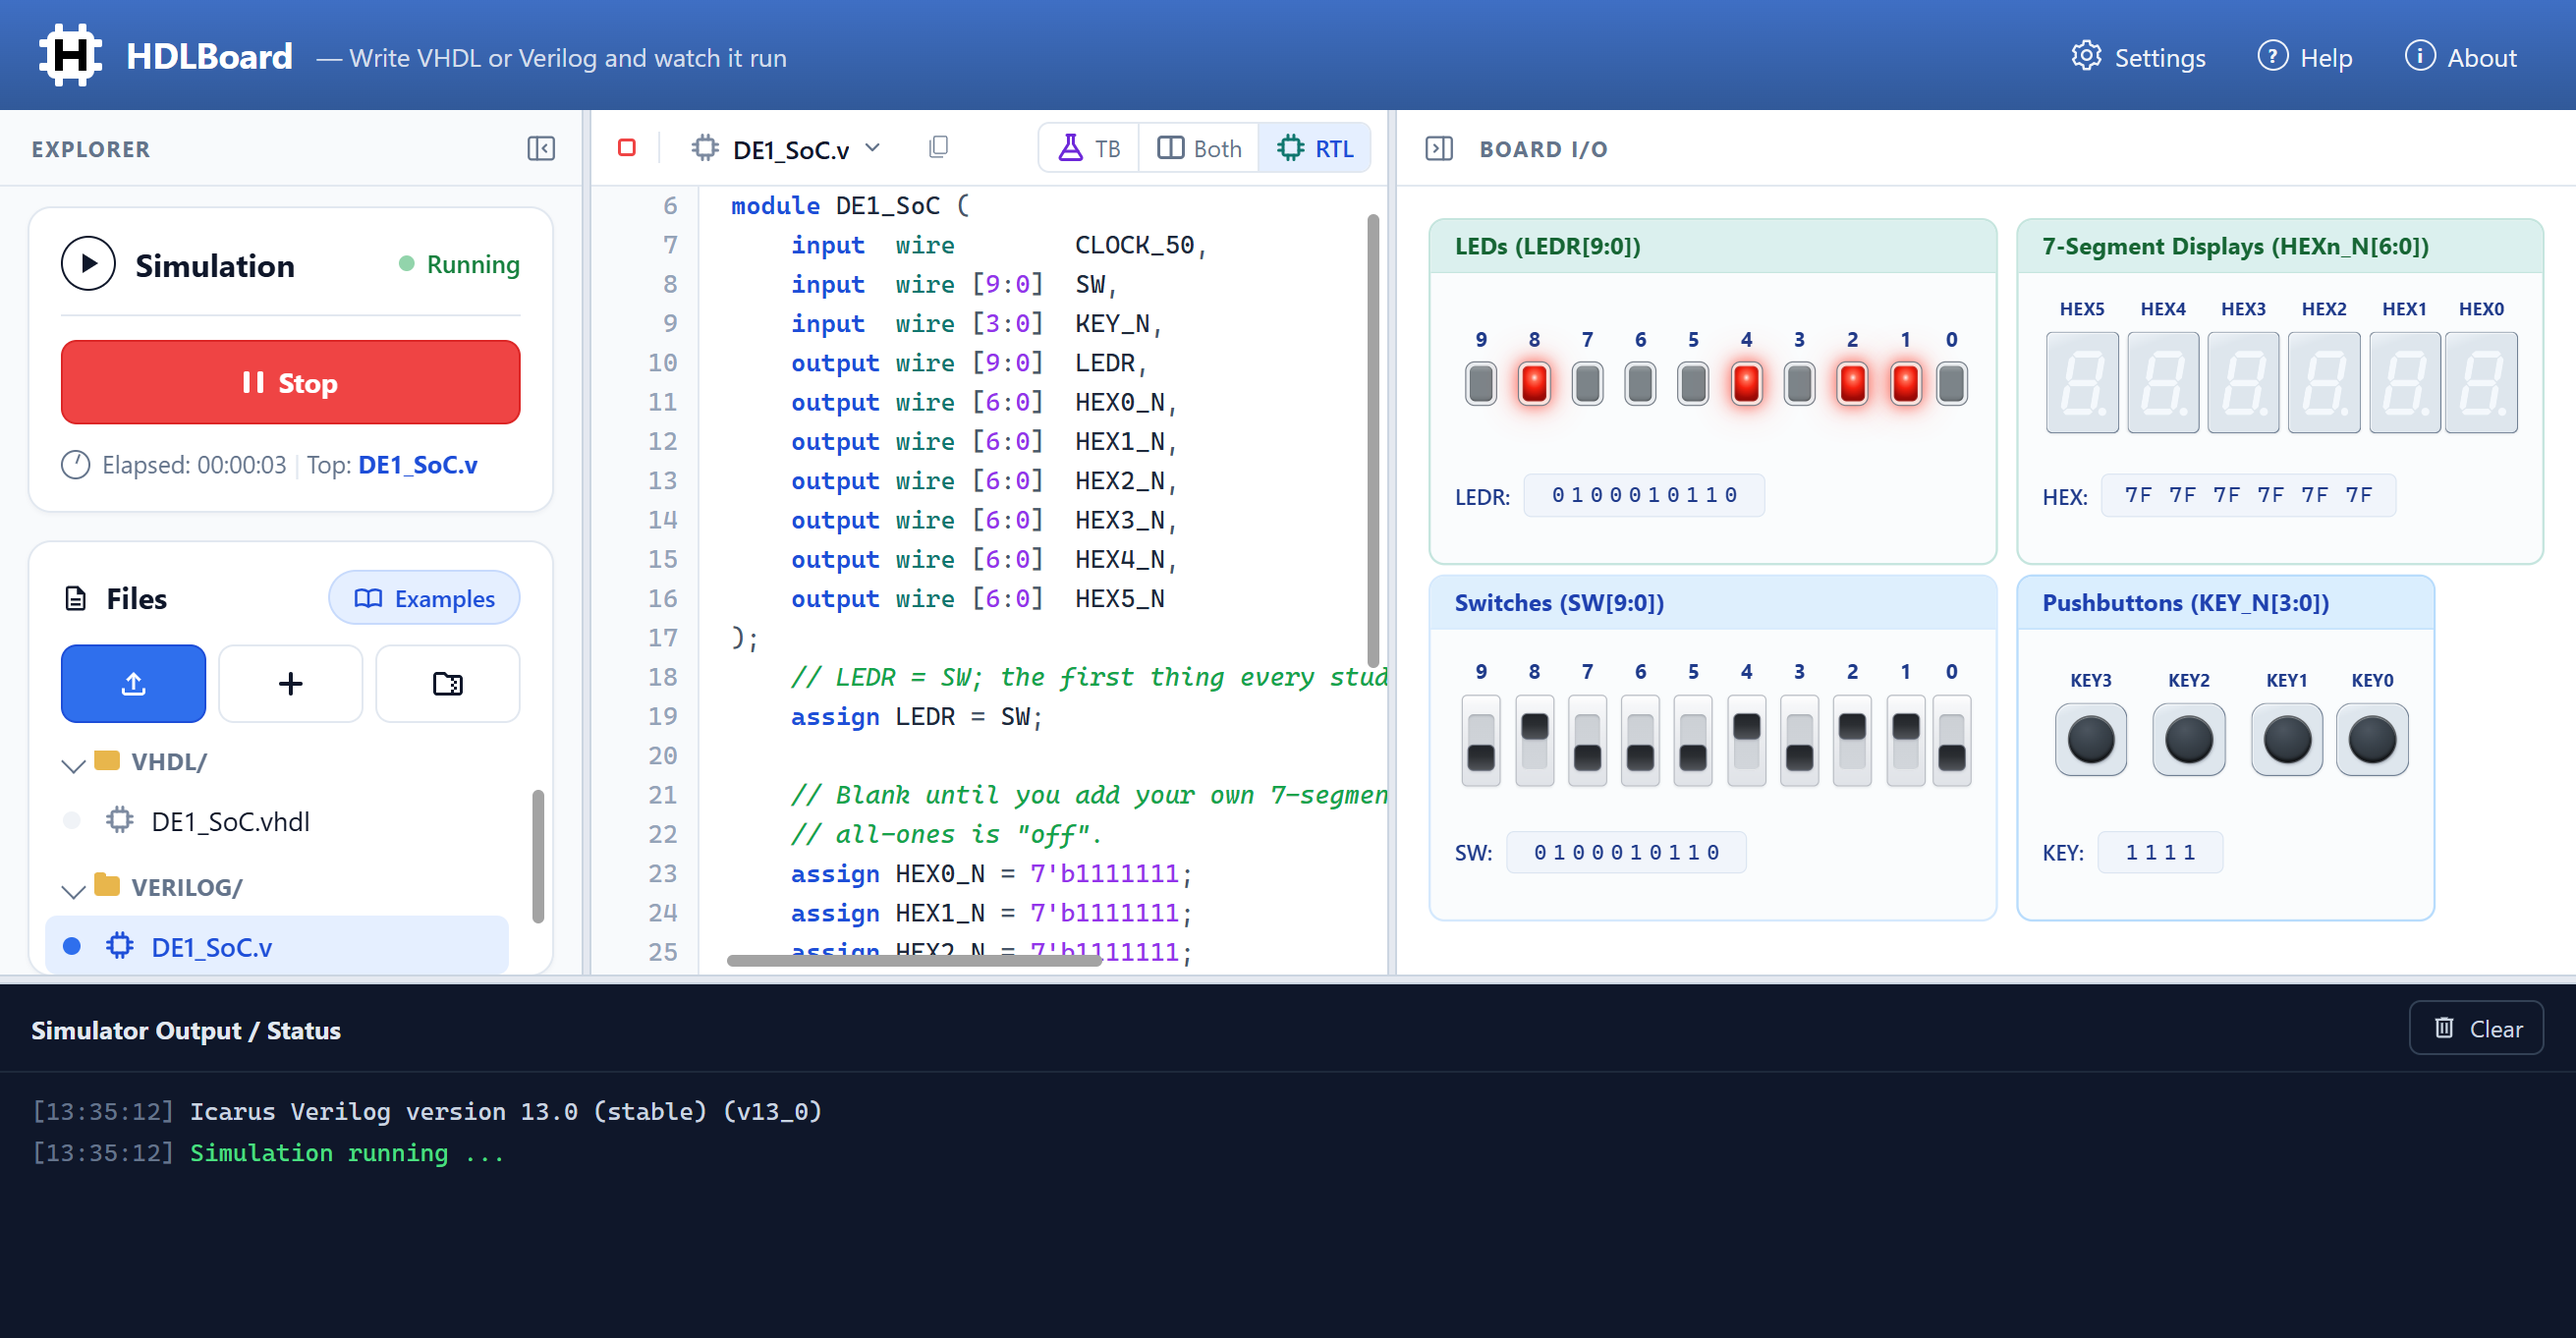
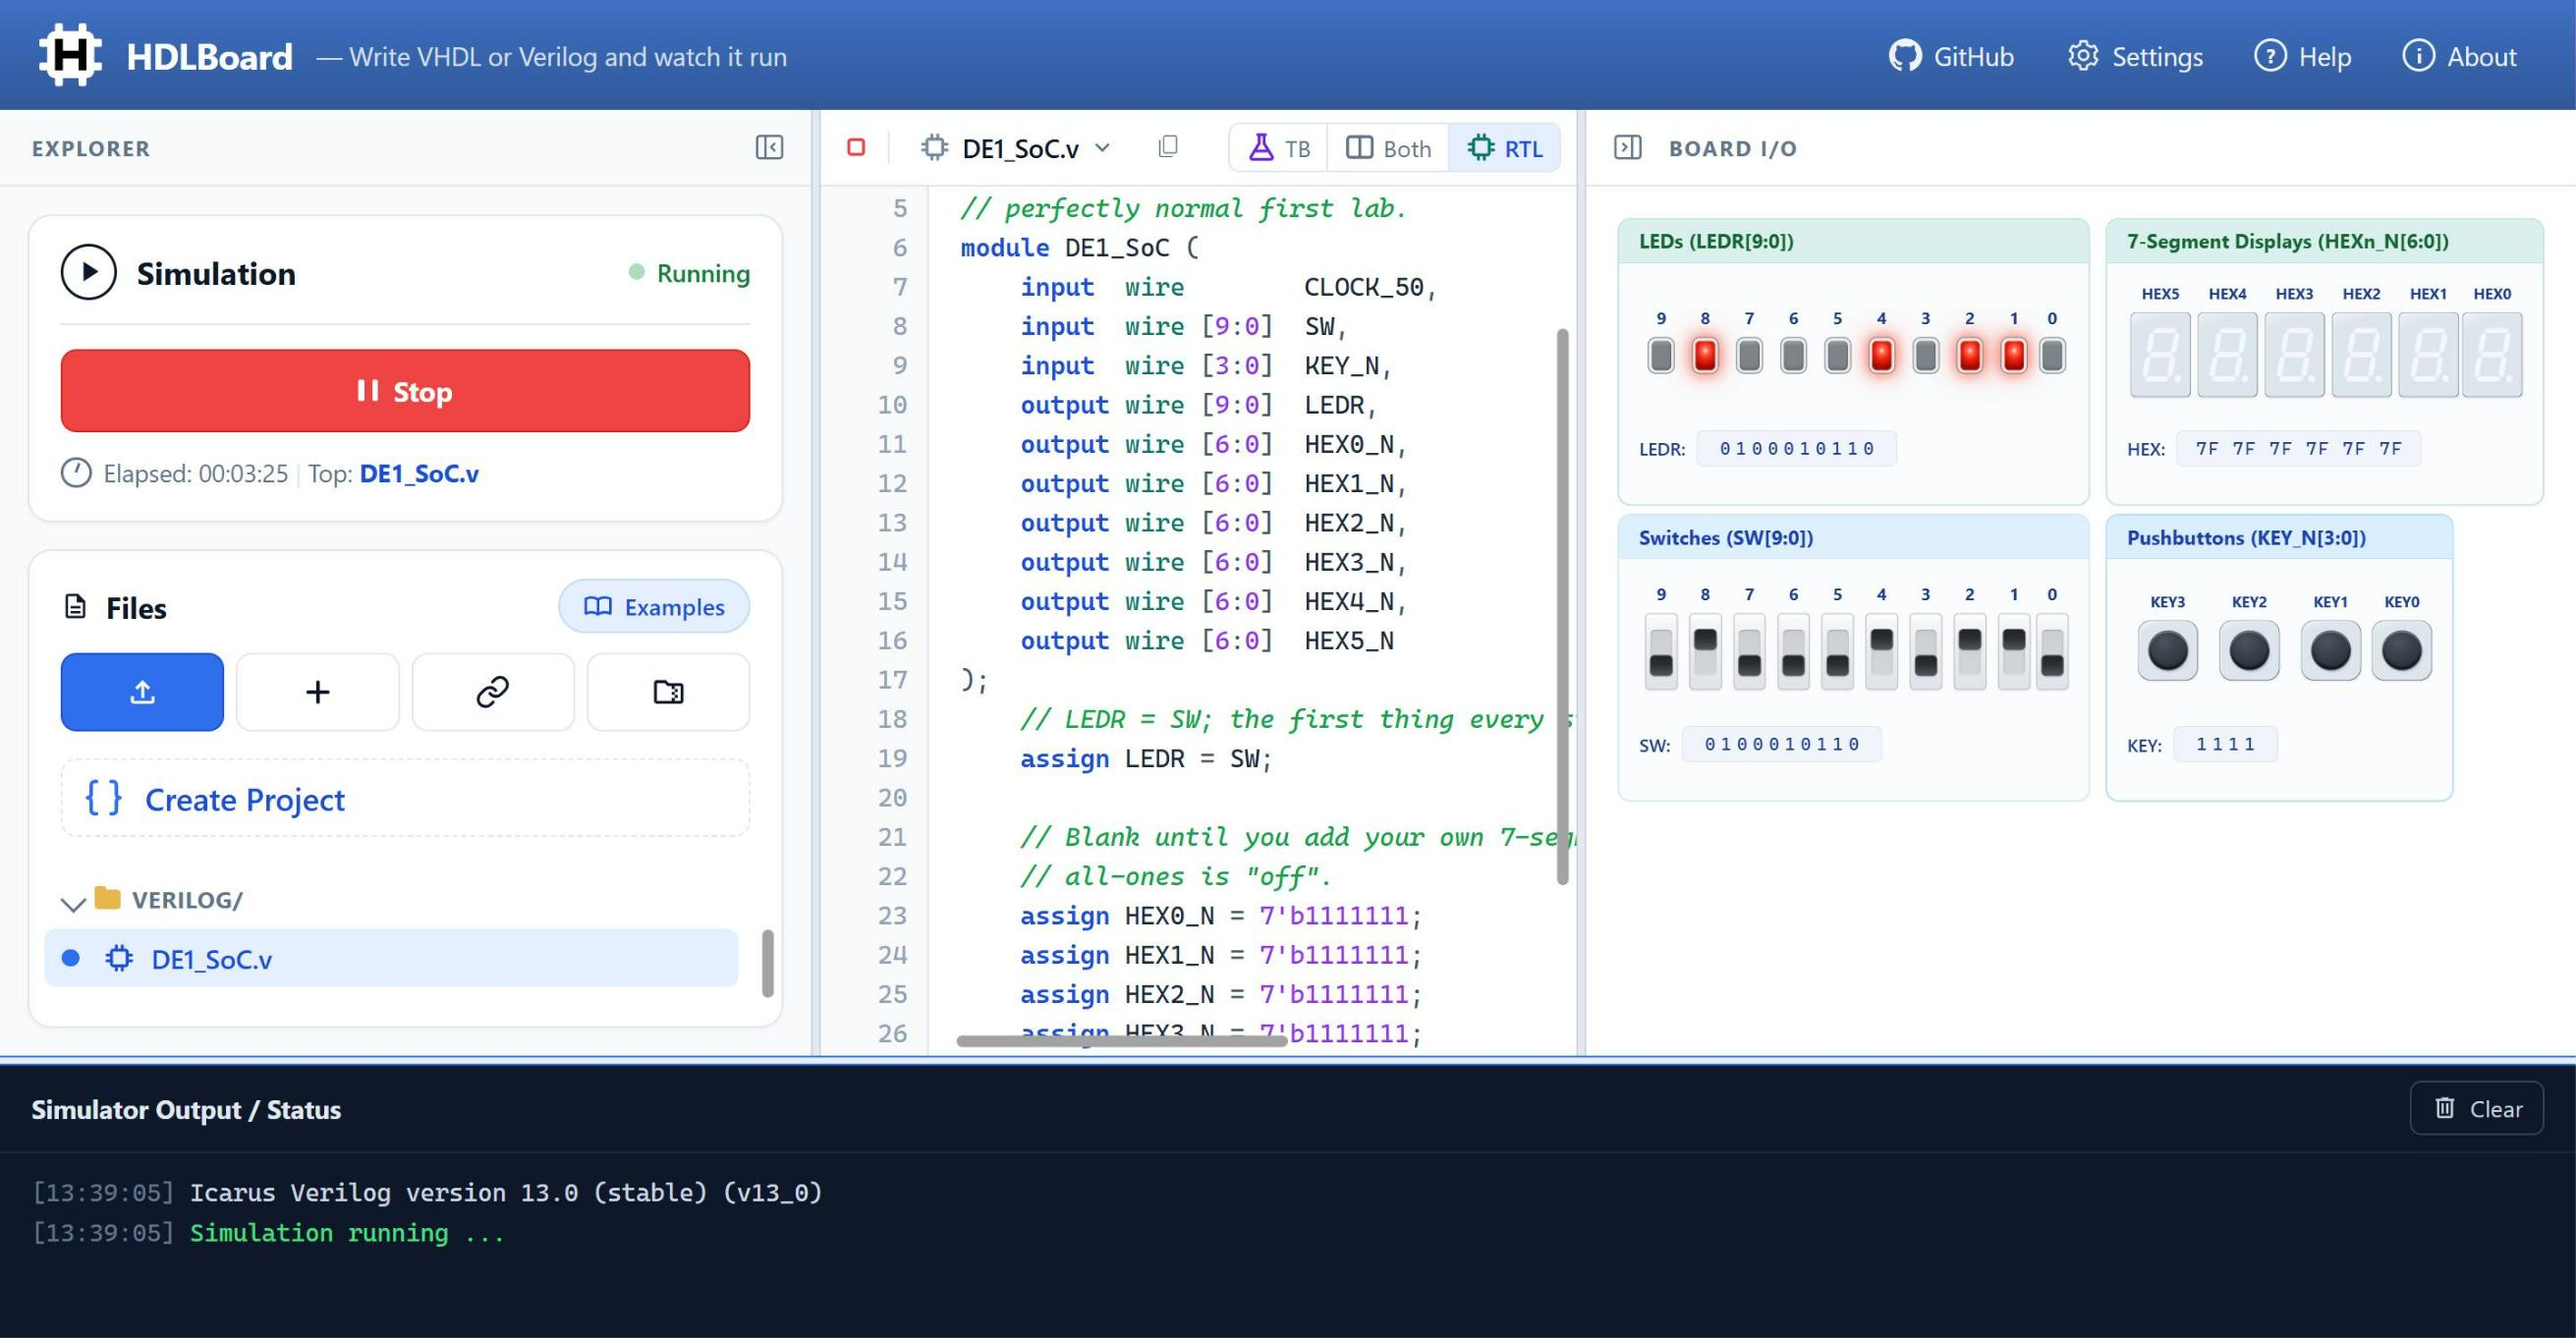
Hero screenshot of the v1.4.0 workbench
Retaken at 2x from the current UI: GitHub in the header, Create
Project in the Files card, DE1_SoC.v running under Icarus Verilog.

diff --git a/index.html b/index.html
@@ -83,7 +83,7 @@
       </div>
     </div>
 
-    <img class="hero-shot" src="assets/workbench.png?v=7" width="1311" height="681" loading="eager"
+    <img class="hero-shot" src="assets/workbench.png?v=8" width="1311" height="681" loading="eager"
          alt="HDLBoard running the Verilog design DE1_SoC.v under Icarus Verilog: the Simulation card and Files panel on the left, the editor in the middle, and the virtual board on the right with four switches up and their LEDs lit, plus the 7-segment displays and pushbuttons" />
   </div>
 </section>
